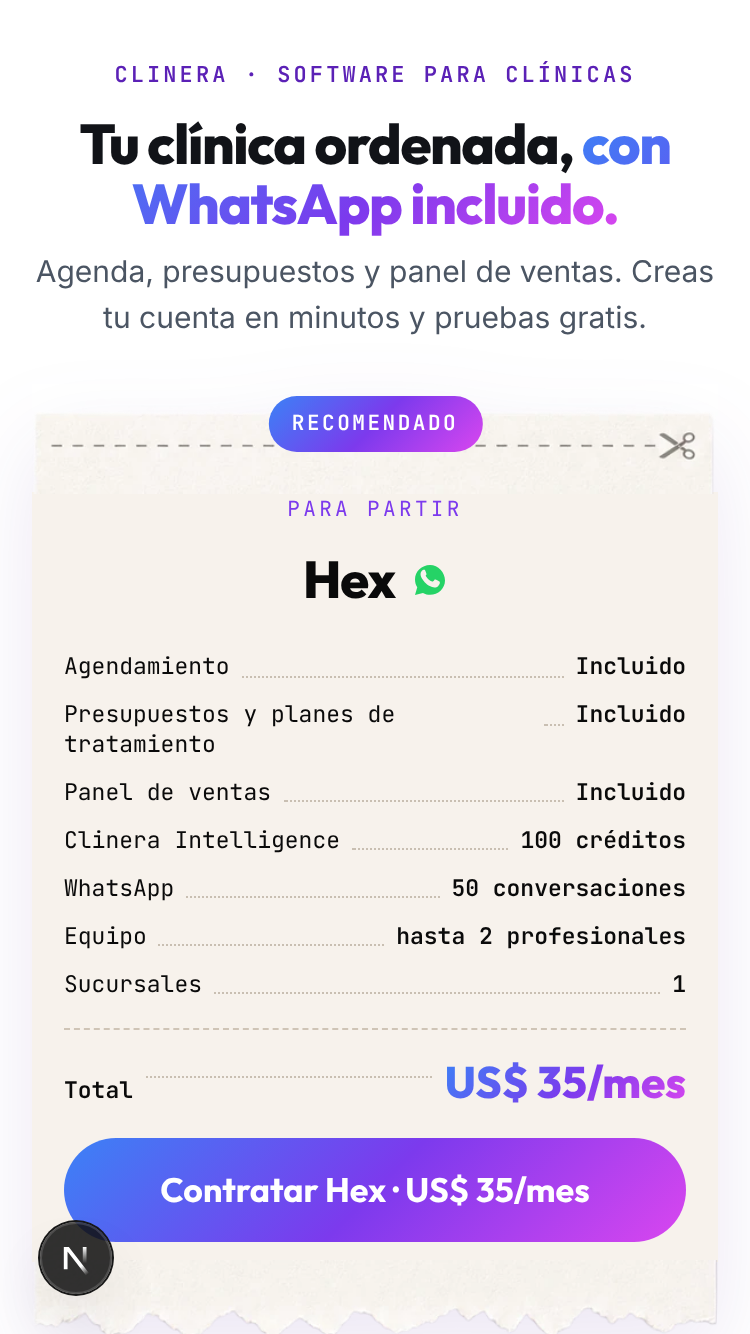
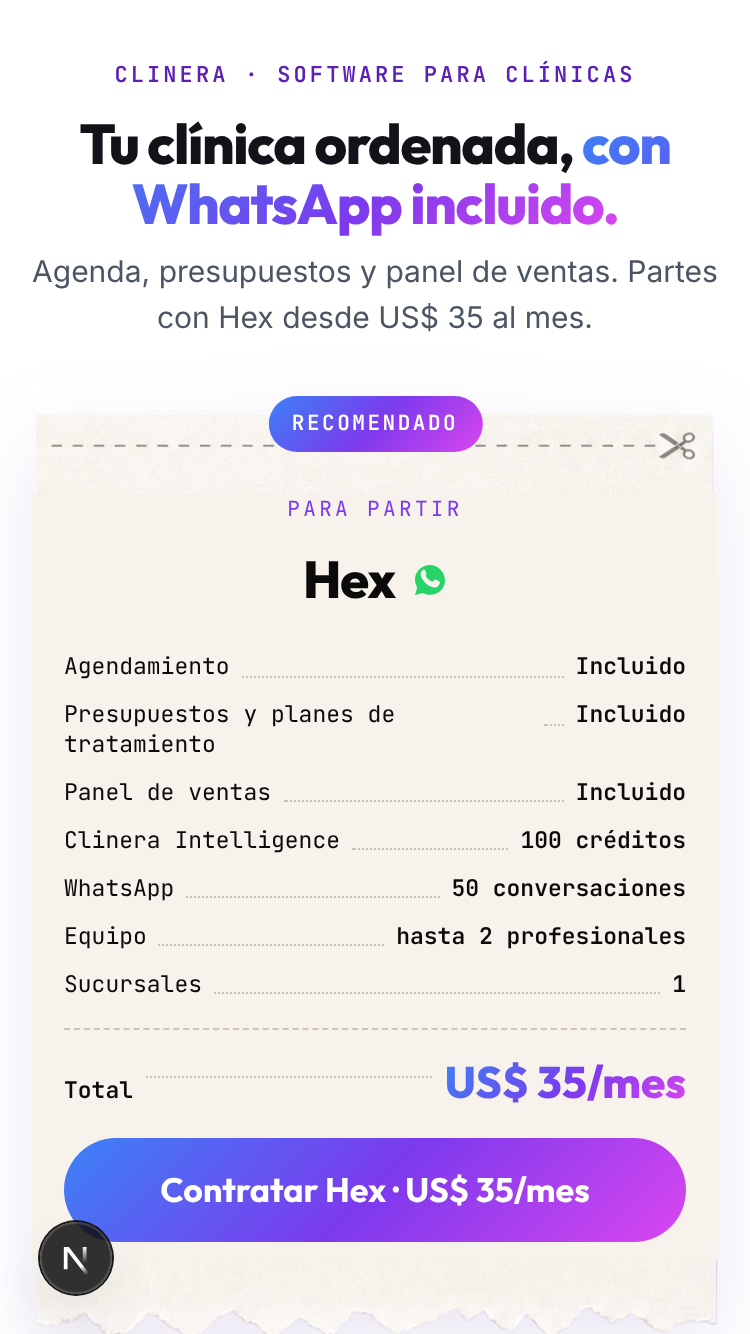
planes: «Parte con Hex» en el encabezado y Hex como único CTA principal
- Encabezado de /planes (y /planes2): «Elige tu plan. Parte con Hex.» con botón al
  Payment Link de Hex (pelado, con utm). La prueba gratis queda como opción de Flux.
- «Cómo funciona», FAQ y metadata dejan de decir «Parte gratis».
- Vortex, Ecosistema y el «Hablar con ventas» del cierre pasan a estilo secundario.

Claude-Session: https://claude.ai/code/session_01KKwzuPihJq4fwqu7rq7928

Changed region(s): [[0.0307, 0.1844, 0.9507, 0.2459]]

diff --git a/src/components/planes-nuevos/PlanesNuevos.tsx b/src/components/planes-nuevos/PlanesNuevos.tsx
@@ -43,6 +43,7 @@ import {
 } from "@/content/planes-nuevos";
 
 const MONO = "'JetBrains Mono', ui-monospace, monospace";
+const HEX = PLANES_NUEVOS.find((p) => p.id === "hex")!;
 const noop = () => () => {};
 const readSearch = () => window.location.search;
 const readSearchServer = () => "";
@@ -79,6 +80,19 @@ export default function PlanesNuevos({ publico = false }: { publico?: boolean })
             <span style={{ background: GRAD, WebkitBackgroundClip: "text", backgroundClip: "text", color: "transparent" }}>{PLANES2_TITULO_ACENTO}</span>
           </h1>
           <p style={{ fontFamily: "Inter", fontSize: 18, color: "#4B5563", lineHeight: 1.55, margin: "0 auto 20px", maxWidth: 620 }}>{PLANES2_BAJADA}</p>
+          {/* «Parte con Hex» (Ricardo, 4-nov-2026): el botón del encabezado es el Payment Link de Hex,
+              pelado (Analytics.tsx cuenta el clic y le pone client_reference_id) y con los utm. */}
+          <a
+            href={conUtm(HEX.pagoUrl!, search)}
+            suppressHydrationWarning
+            data-cta-encabezado
+            data-plan={HEX.id}
+            data-plan-name={HEX.name}
+            data-plan-value={HEX.monthlyUsd}
+            style={{ display: "inline-flex", alignItems: "center", justifyContent: "center", minHeight: 48, padding: "12px 26px", borderRadius: 999, background: GRAD, color: "#fff", fontFamily: "Inter", fontWeight: 700, fontSize: 16, textDecoration: "none", margin: "0 auto 18px" }}
+          >
+            {HEX_PAGO_LABEL} · US$ {HEX.monthlyUsd}/mes
+          </a>
           <PriceModalitySwitch size="compact" align="center" />
         </div>
       </section>
@@ -122,7 +136,7 @@ export default function PlanesNuevos({ publico = false }: { publico?: boolean })
 
       <section className="p2-section" style={{ background: "#FAFAFA", borderTop: "1px solid #F0F0F0" }}>
         <div style={{ maxWidth: 1240, margin: "0 auto" }}>
-          <Titulo eyebrow="Cómo funciona" titulo="Prueba primero, elige después." />
+          <Titulo eyebrow="Cómo funciona" titulo="Parte con Hex, sube cuando crezcas." />
           <div className="p2-steps">
             {COMO_FUNCIONA.map((s) => (
               <div key={s.n} style={{ border: "1px solid #E5E7EB", borderRadius: 12, padding: 22, background: "#fff" }}>
@@ -280,7 +294,8 @@ function Tarjeta({ plan, search, oferta, publico }: { plan: PlanNuevo; search: s
           textDecoration: "none",
           minHeight: 44,
           boxSizing: "border-box",
-          ...(plan.cta === "ventas" || plan.cta === "pago"
+          // Hex es el único CTA principal (Ricardo, 4-nov-2026): Flux, Vortex y Ecosistema, secundarios.
+          ...(plan.cta === "pago"
             ? { background: GRAD, color: "#fff" }
             : { background: "#fff", color: "#0A0A0A", border: "1px solid #E5E7EB" }),
         }}
@@ -378,7 +393,7 @@ function AgendaDemo({ search }: { search: string }) {
           Te mostramos el agente IA y el marketing funcionando, y te decimos qué plan te conviene.
         </p>
         <div style={{ display: "flex", gap: 12, justifyContent: "center", flexWrap: "wrap" }}>
-          <a href={q ? `/agenda?${q}` : "/agenda"} suppressHydrationWarning style={{ background: GRAD, color: "#fff", padding: "13px 22px", borderRadius: 10, fontFamily: "Inter", fontWeight: 600, textDecoration: "none" }}>
+          <a href={q ? `/agenda?${q}` : "/agenda"} suppressHydrationWarning style={{ background: "transparent", color: "#fff", border: "1px solid rgba(255,255,255,.45)", padding: "13px 22px", borderRadius: 10, fontFamily: "Inter", fontWeight: 600, textDecoration: "none" }}>
             {VENTAS_LABEL}
           </a>
           <a href={conPlan(PRUEBA_URL, "flux", search)} suppressHydrationWarning style={{ background: "#fff", color: "#0A0A0A", padding: "13px 22px", borderRadius: 10, fontFamily: "Inter", fontWeight: 600, textDecoration: "none" }}>

diff --git a/src/content/planes-nuevos.ts b/src/content/planes-nuevos.ts
@@ -140,23 +140,24 @@ export function precioOferta(usd: number): number {
 }
 
 export const PLANES2_TITULO = "Elige tu plan.";
-export const PLANES2_TITULO_ACENTO = "Parte gratis.";
-export const PLANES2_BAJADA = "Agenda y WhatsApp para probar. IA y marketing cuando tu clínica esté lista.";
+// Ricardo, 4-nov-2026: el cliente parte con Hex (antes «Parte gratis» y la prueba de Flux).
+export const PLANES2_TITULO_ACENTO = "Parte con Hex.";
+export const PLANES2_BAJADA = "Agenda y WhatsApp desde US$ 35 al mes. IA y marketing cuando tu clínica esté lista.";
 
 export const PRUEBA_LINEA =
-  "La prueba gratis parte con Flux: 7 días o 50 conversaciones de WhatsApp, lo que ocurra primero.";
+  "¿Prefieres probar antes? Flux tiene prueba gratis: 7 días o 50 conversaciones de WhatsApp, lo que ocurra primero.";
 
 export const CLIENTE_ACTUAL_LINEA = "¿Ya eres cliente de Clinera? Tu plan actual se mantiene. Escríbenos si quieres revisarlo.";
 export const CLIENTE_ACTUAL_PENDIENTE = "[PENDIENTE: URL de soporte o WhatsApp]";
 
 export const COMO_FUNCIONA = [
-  { n: "1", titulo: "Crea tu cuenta gratis", texto: "Entras a app.clinera.io y tu prueba parte con Flux." },
+  { n: "1", titulo: "Contrata Hex", texto: "Pagas US$ 35 al mes con tarjeta y tu clínica parte con Hex." },
   {
     n: "2",
     titulo: "Conecta tu WhatsApp",
     texto: "Todos los planes traen WhatsApp: Hex con 50 conversaciones al mes y Flux con 200.",
   },
-  { n: "3", titulo: "Elige tu plan", texto: "A los 7 días o a las 50 conversaciones eliges Hex, Flux, Vortex o Ecosistema." },
+  { n: "3", titulo: "Sube cuando crezcas", texto: "Pasa a Flux para más conversaciones, o a Vortex y Ecosistema para el agente IA y marketing." },
 ] as const;
 
 export const PLANES2_FAQ: readonly { q: string; a: string }[] = [
@@ -166,15 +167,15 @@ export const PLANES2_FAQ: readonly { q: string; a: string }[] = [
   },
   {
     q: "¿Cuánto dura la prueba gratis?",
-    a: "7 días o 50 conversaciones de WhatsApp, lo que ocurra primero. Parte con Flux para que conectes tu WhatsApp.",
+    a: "La prueba gratis es de Flux: 7 días o 50 conversaciones de WhatsApp, lo que ocurra primero.",
   },
   {
     q: "¿Qué pasa al llegar a las 50 conversaciones?",
     a: "Termina la prueba y eliges tu plan: Hex, Flux, Vortex o Ecosistema. [PENDIENTE: qué pasa si no eliges: bloqueo o cobro automático]",
   },
   {
-    q: "¿Puedo empezar con la prueba y subir después?",
-    a: "Sí. Partes gratis y cuando quieras sumar Instagram, Facebook y el agente IA pasas a Vortex o Ecosistema.",
+    q: "¿Con qué plan parto?",
+    a: "Con Hex: US$ 35 al mes con WhatsApp y 50 conversaciones. Si necesitas más conversaciones pasas a Flux, y cuando quieras sumar Instagram, Facebook y el agente IA pasas a Vortex o Ecosistema.",
   },
   {
     q: "¿Cómo subo de plan?",

diff --git a/tests/planes-vigentes.spec.ts b/tests/planes-vigentes.spec.ts
@@ -40,8 +40,18 @@ test.describe("planes vigentes: Vortex · Ecosistema", () => {
     // Analytics.tsx lee data-plan* (InitiateCheckout + client_reference_id). Durante la promo del
     // Ecosistema su link (que cobra 529) no se muestra, igual que antes.
     const conLink = PLANES.filter((p) => p.pagoUrl);
-    // + el de Hex, que es el CTA principal de su tarjeta desde el 4-nov-2026.
-    await expect(page.locator('main a[href*="buy.stripe.com"]')).toHaveCount(conLink.length + 1);
+    // + los dos de Hex (encabezado «Parte con Hex» y su tarjeta), desde el 4-nov-2026.
+    await expect(page.locator('main a[href*="buy.stripe.com"]')).toHaveCount(conLink.length + 2);
+    await expect(page.locator("h1")).toContainText("Parte con Hex");
+    await expect(page.locator("a[data-cta-encabezado]")).toHaveAttribute("href", /buy\.stripe\.com\/14AdRbdBnfD49wTgwz1441M\?utm_source=google/);
+    await expect(page.locator("main")).not.toContainText(/Parte gratis|prueba parte con Flux/);
+    // Hex es el único CTA principal: Vortex y Ecosistema van con botón secundario (fondo blanco).
+    for (const id of ["vortex", "ecosistema", "flux"]) {
+      const fondo = await page.locator(`[data-plan-card="${id}"] a[data-cta]`).evaluate((e) => getComputedStyle(e).backgroundImage);
+      expect(fondo).toBe("none");
+    }
+    const fondoHex = await page.locator('[data-plan-card="hex"] a[data-cta]').evaluate((e) => getComputedStyle(e).backgroundImage);
+    expect(fondoHex).toContain("gradient");
     await expect(page.locator('[data-plan-card="hex"] a[data-cta="pago"]')).toHaveAttribute("data-plan", "hex");
     for (const p of conLink) {
       const pago = page.locator(`[data-plan-card="${p.id}"] a[href*="buy.stripe.com"]`);

diff --git a/src/app/planes/page.tsx b/src/app/planes/page.tsx
@@ -13,7 +13,7 @@ import { PLANES_NUEVOS, faqPublica } from "@/content/planes-nuevos";
 // saliendo de `planes.ts` (ver `PlanesNuevos publico`). `/promo` y el home siguen con `planes.ts`.
 const DESDE = Math.min(...PLANES_NUEVOS.map((p) => p.monthlyUsd));
 const TITLE = `Planes: Hex, Flux, Vortex y Ecosistema, desde US$ ${DESDE}/mes`;
-const DESCRIPTION = `${PLANES_NUEVOS.map((p) => `${p.name} US$ ${p.monthlyUsd}/mes`).join(" · ")}. Todos con WhatsApp. Parte gratis con Hex o Flux; Vortex suma el agente IA y el Ecosistema suma marketing.`;
+const DESCRIPTION = `${PLANES_NUEVOS.map((p) => `${p.name} US$ ${p.monthlyUsd}/mes`).join(" · ")}. Todos con WhatsApp. Parte con Hex; Vortex suma el agente IA y el Ecosistema suma marketing.`;
 
 const planesSchema = {
   "@context": "https://schema.org",

diff --git a/src/app/planes2/page.tsx b/src/app/planes2/page.tsx
@@ -7,7 +7,7 @@ import PlanesNuevos from "@/components/planes-nuevos/PlanesNuevos";
 // No se indexa ni va al sitemap hasta que reemplace a /planes.
 export const metadata: Metadata = {
   title: "Planes: Hex, Flux, Vortex y Ecosistema",
-  description: "Parte gratis con Hex o Flux. Vortex suma el agente IA; el Ecosistema suma marketing.",
+  description: "Parte con Hex desde US$ 35 al mes. Vortex suma el agente IA; el Ecosistema suma marketing.",
   robots: { index: false, follow: false },
   alternates: { canonical: "https://www.clinera.io/planes" },
 };

diff --git a/src/components/contrata/ContrataLanding.tsx b/src/components/contrata/ContrataLanding.tsx
@@ -55,7 +55,7 @@ export default function ContrataLanding() {
         <h1 className={styles.titulo}>
           Tu clínica ordenada, <span className={styles.acento}>con WhatsApp incluido.</span>
         </h1>
-        <p className={styles.bajada}>Agenda, presupuestos y panel de ventas. Creas tu cuenta en minutos y pruebas gratis.</p>
+        <p className={styles.bajada}>Agenda, presupuestos y panel de ventas. Partes con Hex desde US$ 35 al mes.</p>
       </header>
 
       <div className={styles.tickets}>

diff --git a/AGENTS.md b/AGENTS.md
@@ -1408,3 +1408,8 @@ secundario, y Vortex y Ecosistema siguen con «Hablar con ventas».
   el `client_reference_id`. Se comprobó con un clic real en Chromium.
 - **Lo que cobra el link no está verificado:** la llave de Stripe del entorno no tiene permiso para leer Payment
   Links, y `data-plan-value` dice 35. Si el precio cambia en Stripe, hay que cambiar `monthlyUsd` y el link a la vez.
+- **«Parte con Hex» (Ricardo, 4-nov-2026, 2.ª vuelta):** el encabezado de `/planes` y `/planes2` dice «Elige tu plan.
+  Parte con Hex.» y lleva un botón al Payment Link de Hex (`data-cta-encabezado`, pelado, con los utm). La prueba
+  gratis sigue existiendo, pero es de Flux y ya no es el punto de partida. **Hex es el único CTA principal**: Flux,
+  Vortex, Ecosistema y el «Hablar con ventas» del cierre van con botón secundario, sin degradado. Lo vigila
+  `tests/planes-vigentes.spec.ts`.
